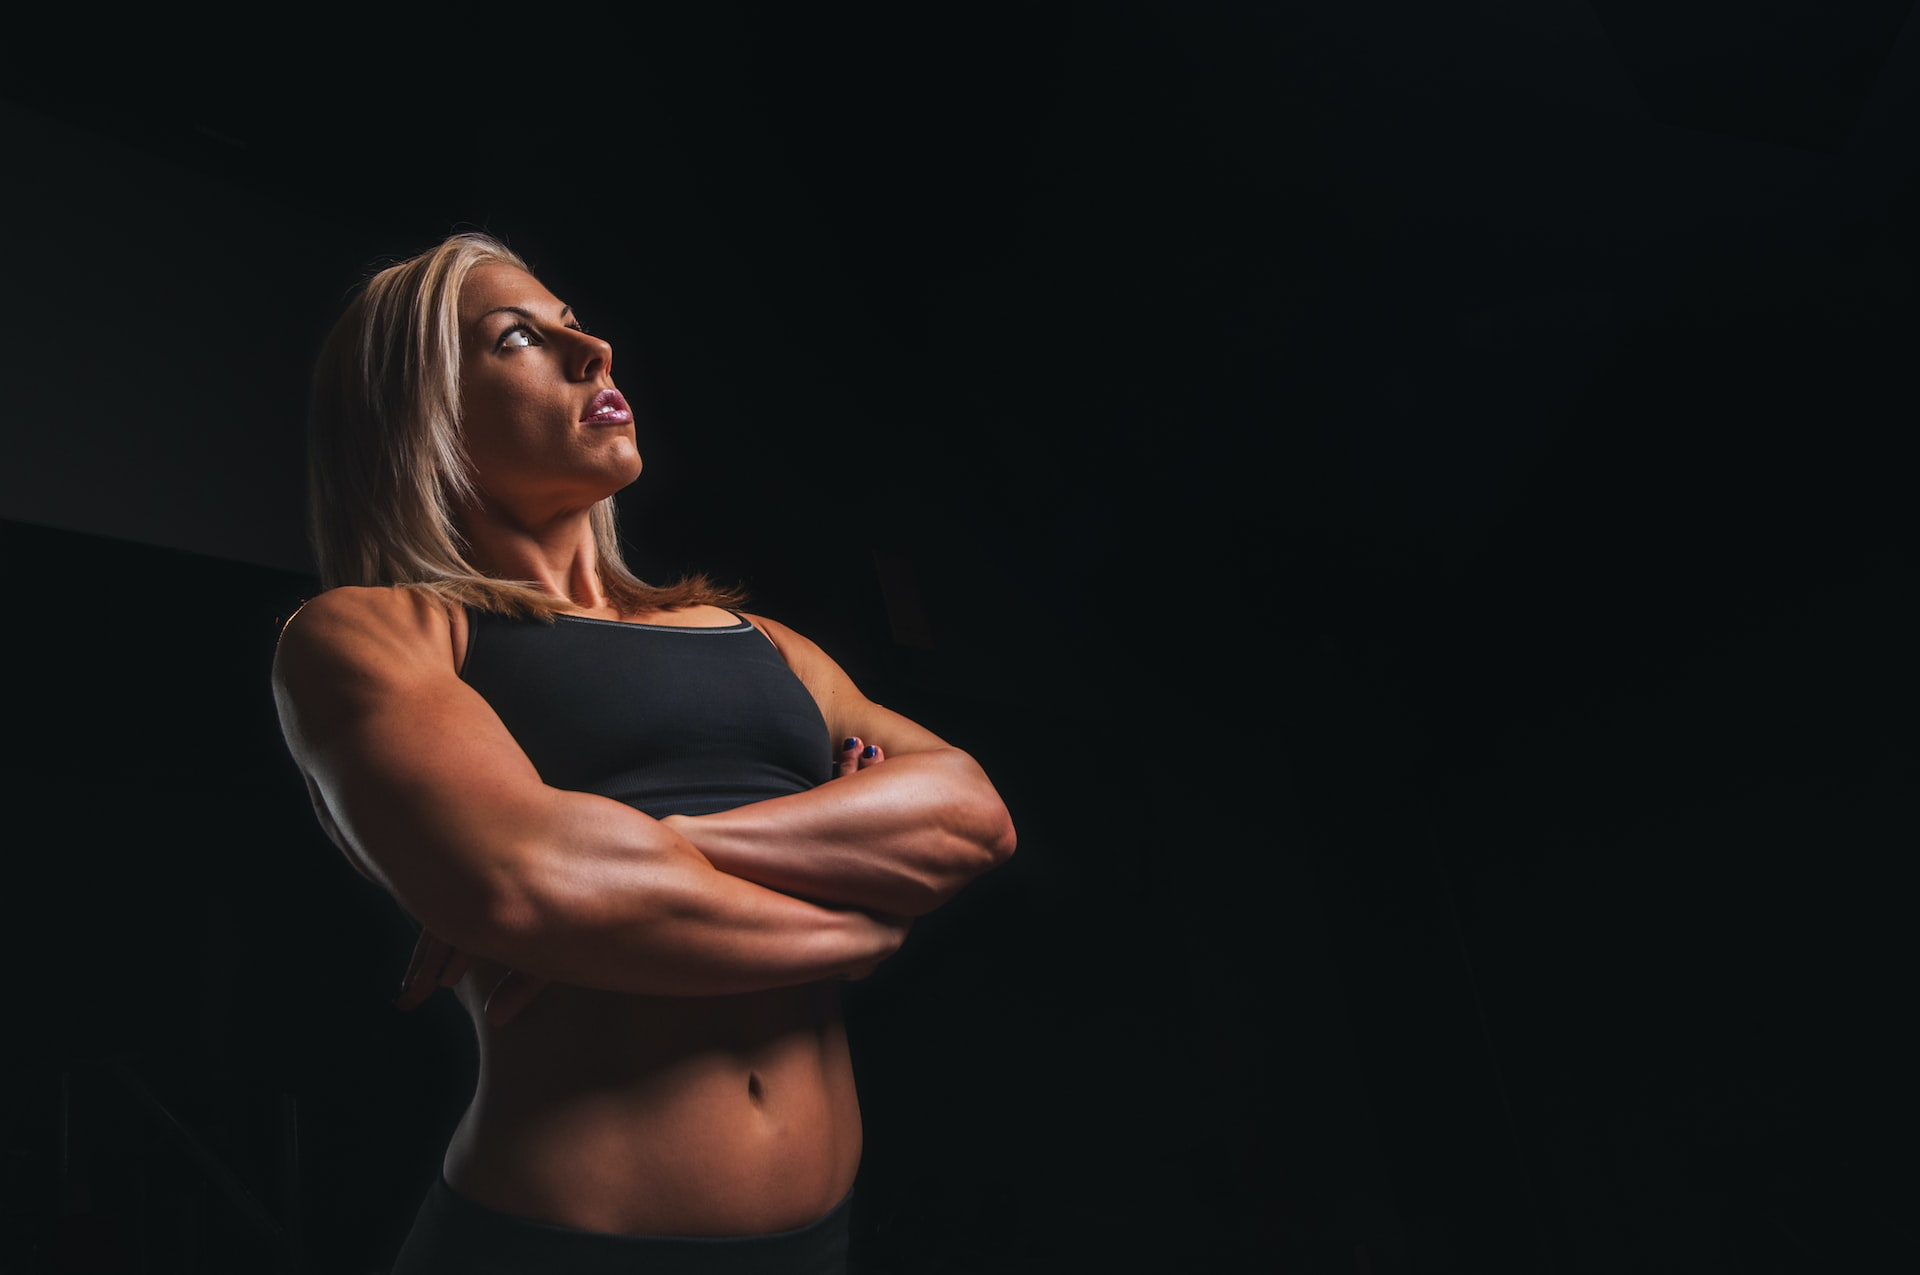
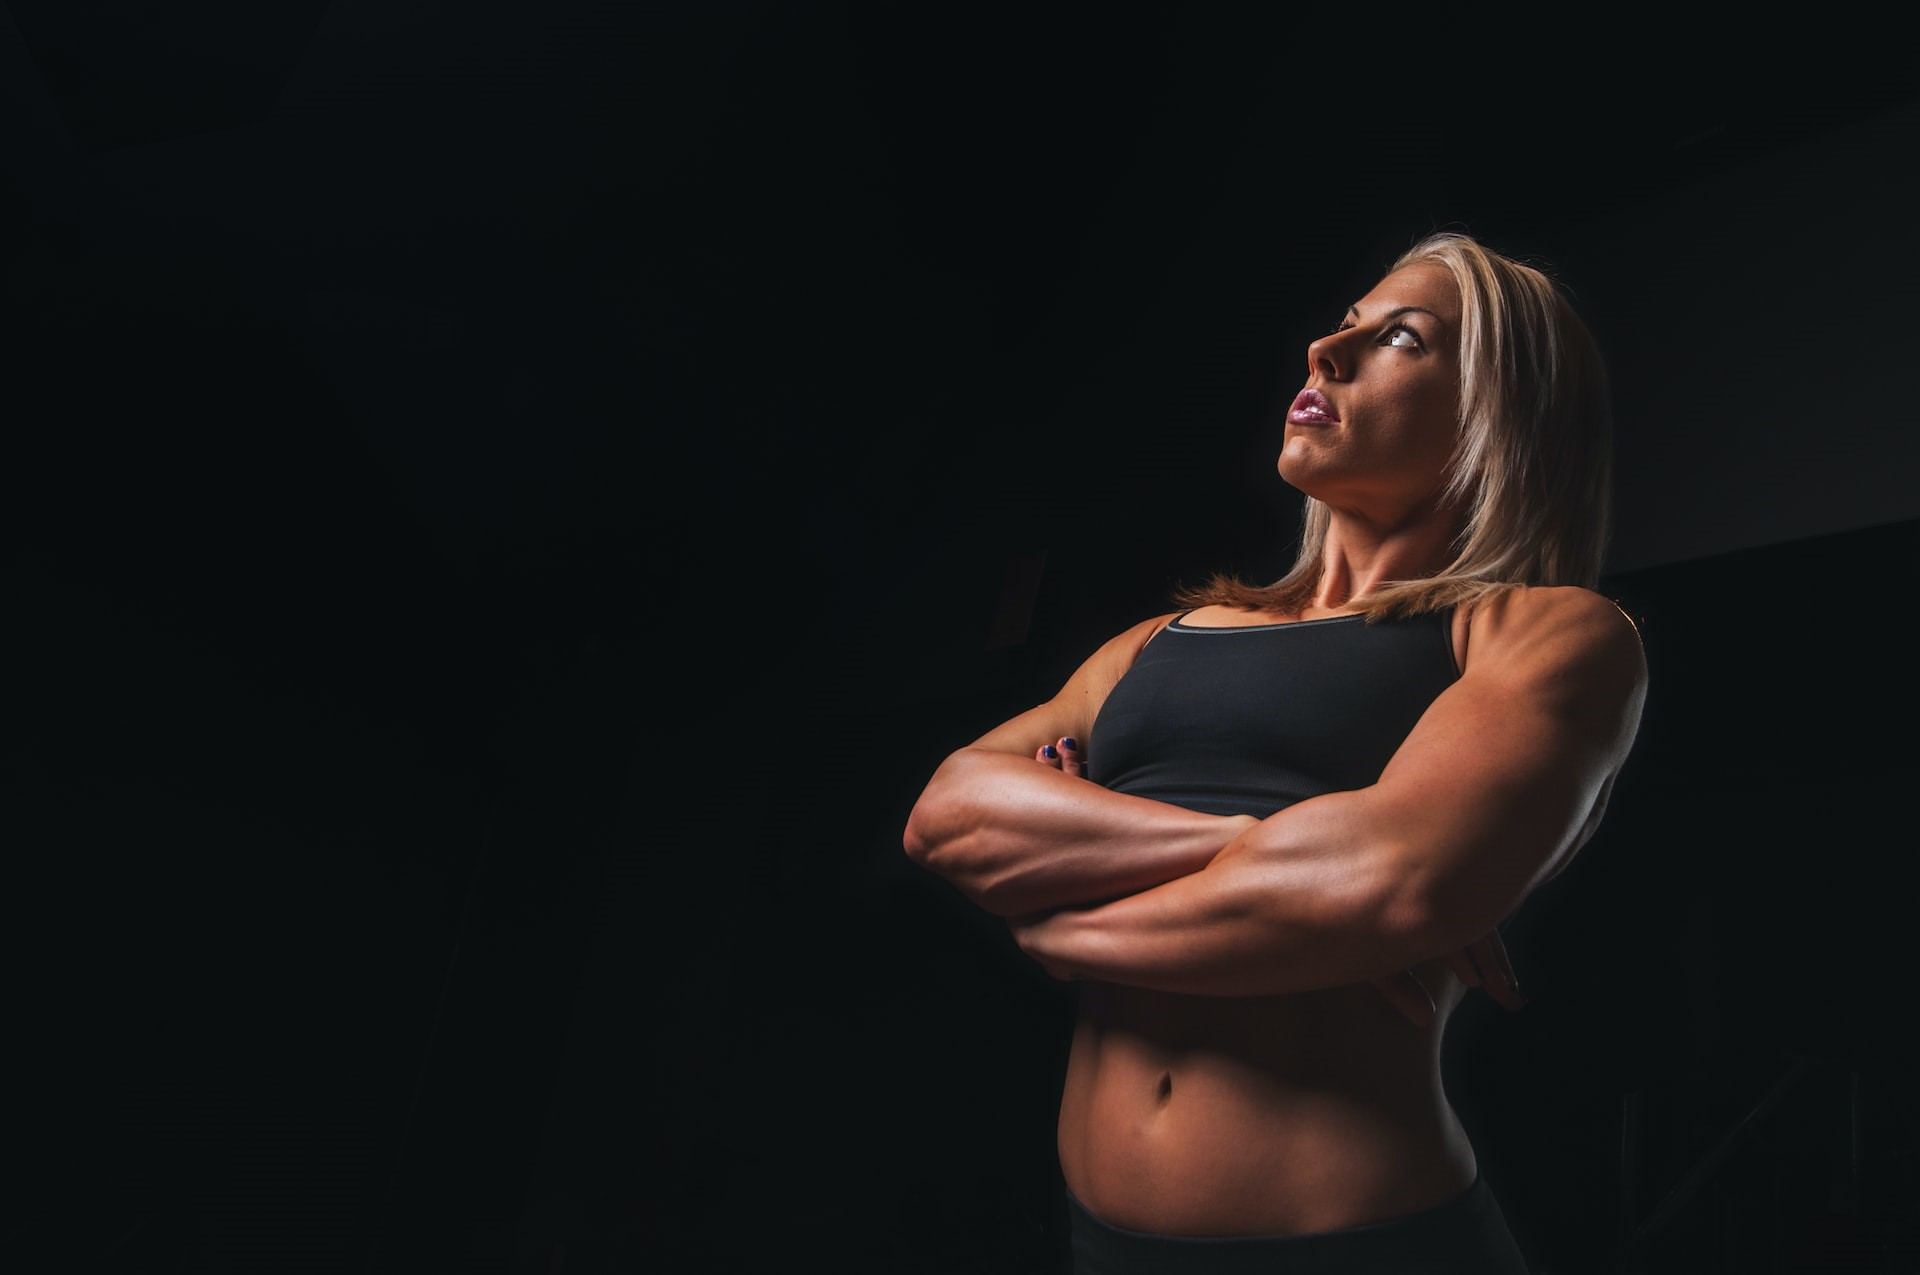
updated login form with supabase

Changed region(s): [[0.125, 0.1835, 0.875, 0.9788]]

diff --git a/client/src/Components/Login/LoginForm.jsx b/client/src/Components/Login/LoginForm.jsx
@@ -1,44 +1,46 @@
 import React, { useState } from 'react'
 import '../../css/loginPage.css'
 import { useNavigate } from 'react-router-dom'
-import checkToken from '../../actions/checkToken'
-import userSignIn from '../../actions/userSignIn'
-import Toasts from '../Toasts'
+import supabase from '../../actions/supabaseClient'
 
-export default function LoginForm() {
+export default function LoginForm(props) {
     const navigate = useNavigate()
-    const [loginFailToast, setLoginFailToast] = useState(false)
-    const toasts = { loginFailToast, setLoginFailToast }
-    const signIn = async e => {
+    const [email, setEmail] = useState('')
+    const [password, setPassword] = useState('')
+    const handleSubmit = async e => {
         e.preventDefault()
-        await userSignIn(e.target.form[0].value, e.target.form[1].value)
-        let token = checkToken()
-        console.log("token", token)
-        if (token) {
-            navigate('/account_information', { state: { pass: true } })
-        } else {
-            setLoginFailToast(true)
+        let { data, error } = await supabase.auth.signInWithPassword({
+            email: email,
+            password: password,
+        })
+        if (error) {
+            console.log(error)
+            props.toasts.setLoginFailToast(true)
+            return
+        }
+        if (data) {
+            console.log(data)
+            navigate('/account_information')
         }
     }
     return (
-        <div>
-            <form action="" className="login-form">
-                <h1>MEMBER SIGN IN</h1>
-                <input
-                    className="emailLoginInput"
-                    placeholder="Email"
-                    type="email"
-                ></input>
-                <input
-                    className="passwordLoginInput"
-                    placeholder="Password"
-                    type="password"
-                ></input>
-                <button id="submit-btn" onClick={e => signIn(e)}>
-                    Sign In
-                </button>
-            </form>
-            <Toasts toasts={toasts} />
-        </div>
+        <form className="loginForm" onSubmit={handleSubmit}>
+            <h1>MEMBER SIGN IN</h1>
+            <input
+                name="email"
+                type="email"
+                value={email}
+                onChange={e => setEmail(e.target.value)}
+                placeholder="Enter email address.."
+            />
+            <input
+                name="password"
+                type="password"
+                value={password}
+                onChange={e => setPassword(e.target.value)}
+                placeholder="Enter password.."
+            />
+            <button>Sign In</button>
+        </form>
     )
 }

diff --git a/client/src/css/loginPage.css b/client/src/css/loginPage.css
@@ -1,114 +1,65 @@
-
-.login-Container{
+.loginPageWrapper {
     display: flex;
     height: 100vh;
-    background: url('../assets/workoutLady3.2.jpg');
+    background: url('../assets/sign_in_background_1920.jpg');
     width: 100%;
     background-size: cover;
     background-repeat: no-repeat;
     z-index: 0;
 }
-.form-container{
+.loginFormContainer {
     margin-top: 20vh;
-    width: 40%;
-    height: 70%;
+    width: 40vw;
+    height: 60vh;
     display: flex;
-    margin-left: 3rem;
+    margin-left: 10vw;
     background: rgba(247, 247, 247, 0.753);
     border-radius: 15px;
     margin-bottom: 10px;
 }
-.login-form{
+.loginForm {
     display: flex;
     flex-direction: column;
     padding: 30px 10px 10px;
     width: 100%;
 }
 
-.emailLoginInput,
-.passwordLoginInput,
-#submit-btn
-{
-    margin:15px;
+.loginForm input,
+button {
+    margin: 15px;
     height: 50px;
     border-radius: 30px;
     padding: 20px;
     letter-spacing: 1px;
     box-shadow: inset 0 0 0 0 #131414;
-    transition: .5s;
+    transition: 0.5s;
 }
-.emailLoginInput:hover,
-.passwordLoginInput:hover{
+.loginForm input:hover,
+button:hover {
     transform: scale(1.05, 1.05);
 }
-h1{
-    text-align: center;
+
+.loginForm button {
+    background-color: #ff1414;
 }
-.underPassword{
-    margin: 0px 15px;
-    padding: 10px;
-    display: flex;
-    justify-content: space-between;
-}
-.stayContainer{
-    display: flex;
-}
-.keepSignIn{
-    margin-left: 7px;
-    accent-color:#000000
-}
-#submit-btn{
-    background-color: #FF1414;
-}
-h3{
-    text-align: center;
-}
-span{
-    text-decoration: underline;
-}
-#submit-btn:hover{
-    color: #E5DADA;
+.loginForm button:hover {
+    color: #e5dada;
     box-shadow: inset 650px 0 0 0 #000000;
     cursor: pointer;
     transition: 0.5s;
 }
-.iconList{
-    margin-top: 20px;
-    display: flex;
-    justify-content: center;
-}
-#icon{
-    height: 40px;
-    width: 40px;
-    margin: 5px;
-}
-.form-logo{
+
+.form-logo {
     height: 40px;
     margin: -8px 0 0 3px;
-
 }
-.bottom-form{
-    margin-top: 15px;
-    display: flex;
-    align-items: center;
-    justify-content: center;
-}
-@media(max-width: 1190px){
-    .login-Container{
-        background-image: url(../assets/workoutLady2.jpg);
-    }
-    .form-container{
-        width:60%
+@media (max-width: 1200px) {
+    .loginPageWrapper {
+        background: url('../assets/sign_in_background_1200.jpg');
     }
 }
-@media(max-width: 720px){
-
-    .form-container{
-        width:81%
-    }
-}
-@media(max-width: 376px){
-    .login-Container{
-        height: 130vh;
+@media (max-width: 800px) {
+    .loginPageWrapper {
+        background: url('../assets/sign_in_background_800.jpg');
     }
 }

diff --git a/client/src/Components/Login/LoginPage.jsx b/client/src/Components/Login/LoginPage.jsx
@@ -1,24 +1,19 @@
-import React from 'react'
+import React, { useState } from 'react'
 import '../../css/loginPage.css'
-import { Link } from 'react-router-dom'
-import logo from '../../assets/GAINZZZ.png'
 import LoginForm from './LoginForm'
+import Toasts from '../Toasts'
 
 export const LoginPage = () => {
+    const [loginFailToast, setLoginFailToast] = useState(false)
+    const toasts = { loginFailToast, setLoginFailToast }
     return (
         <>
-            <div className="login-Container">
-                <div className="form-container">
-                    <img src={logo} alt="logo" className="form-logo" />
-                    <LoginForm />
-                    <h3>
-                        Dont have an account?
-                        <span>
-                            <Link to="/sign_up">Register</Link>
-                        </span>
-                    </h3>
+            <div className="loginPageWrapper">
+                <div className="loginFormContainer">
+                    <LoginForm toasts={toasts} />
                 </div>
             </div>
+            <Toasts toasts={toasts} />
         </>
     )
 }

diff --git a/client/src/Components/SignUp/SignUpForm.jsx b/client/src/Components/SignUp/SignUpForm.jsx
@@ -5,7 +5,6 @@ import '../../css/signUpForm.css'
 const SignUpForm = (props) => {
     const [email, setEmail] = useState('')
     const [password, setPassword] = useState('')
-
     const handleSubmit = async e => {
         e.preventDefault()
         if (password.length < 6) {
